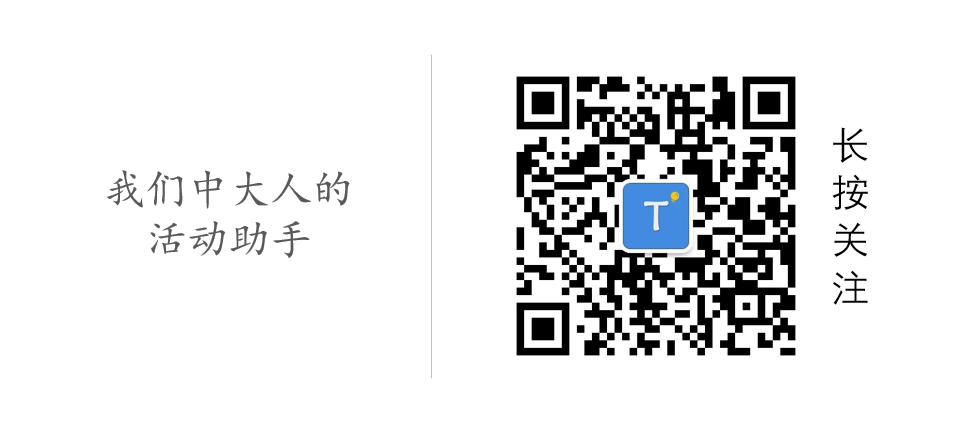
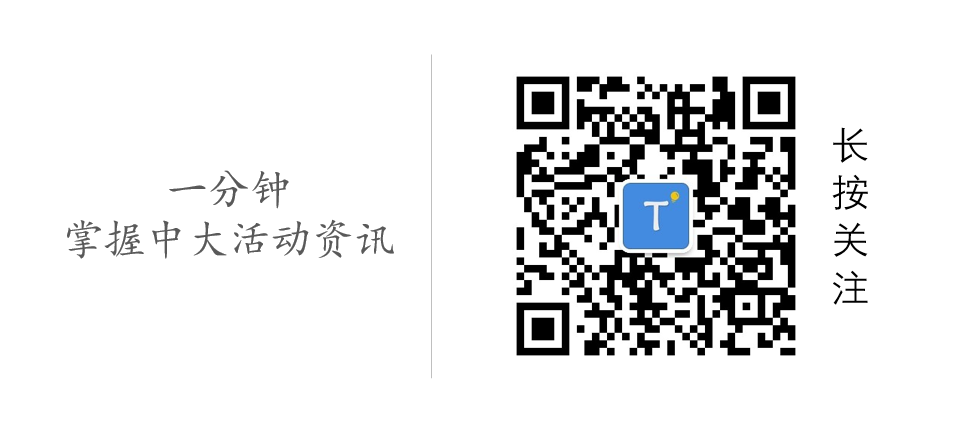
修复了第二反馈的所有bug

Changed region(s): [[0.0615, 0.5212, 0.3996, 0.6132], [0.0922, 0.3986, 0.3689, 0.4906]]

diff --git a/static/js/publish.js b/static/js/publish.js
@@ -16,14 +16,26 @@ $(document).ready(function() {
 
 	//initial the time picker
 	$("#actDDL").datetimePicker({
-	  min: "2012-12-12",
+	  min: theDate(),
 	  max: "2022-12-12 12:12",
 	});
 
 	//绑定检验函数
 	bindCheck();
 	UpLoadImage();
-})
+});
+
+function theDate() {
+	var timeStr = "";
+	var Today = new Date();
+	timeStr = Today.getFullYear()+"-"+
+				(Today.getMonth()+1)+"-"+
+				(Today.getDate()) + " "+
+				(Today.getHours()) + ":"+
+				(Today.getMinutes());
+
+	return timeStr;
+}
 
 function UpLoadImage() {
 	$.weui = {};
@@ -207,9 +219,10 @@ function checkNeceValid() {
 	}
 }
 function checkCounterOk(selector) {
-	if (isCheckPass[selector] == true ) {
+	if (isCheckPass[selector] == true && $(selector).val().length != 0) {
 		showSuccess(selector);
-	} else {
+	}
+	else if (isCheckPass[selector] == true) {
 		$(selector+"_showTips").hide();
 	}
 
@@ -314,8 +327,11 @@ function showFaild(selector) {
 }
 function checkEmpty() {
 	for (var key in isCheckPass) {
-		if (isCheckPass[key] == false && key !== "#actReward" && key != "#actDem") {
-			showFaild(key, "艾玛，还没填呢");
+		if (isCheckPass[key] == false 
+			&& key !== "#actReward" 
+			&& key != "#actDem"
+			&& $(key).val().length == 0) {
+			showFaild(key, "请输入相关内容");
 		}
 	}
 }

diff --git a/templates/publish.html b/templates/publish.html
@@ -3,7 +3,7 @@
     <head>
         <meta charset="UTF-8">
         <meta name="viewport" content="width=device-width,initial-scale=1,user-scalable=0">
-        <title>发布活动</title>
+        <title>发布{{ MainTitle }}活动</title>
         <!-- 引入 WeUI -->
         <link rel="stylesheet" href="{{ static_url("css/weui.css") }}"/>
         <link rel="stylesheet" href="{{ static_url("css/publish.css") }}" />
@@ -14,7 +14,7 @@
     </head>
     <body>
         <div class="header">
-            <div><img src="{{ static_url("images/publish.png") }}"><h1>发布活动</h1></div>
+            <div><img src="{{ static_url("images/publish.png") }}"><h1>发布{{ MainTitle }}活动</h1></div>
             <p class="tips">在这里，把你的活动告诉中大人</p>
         </div>
         <form id="Actform" action="/publish?Title={{ Title }}" method="post">

diff --git a/templates/modules/activityItem.html b/templates/modules/activityItem.html
@@ -63,12 +63,14 @@
 
                 <p style="font-size: 1em; text-align: left;">
                     <span style=" line-height: 28px;"><strong style="line-height: 25.6px;"><span style="line-height: 23.4px;"><strong>活动详情：</strong></span></strong></span><span style=" line-height: 25.6px;">{{ activity.actDetail }}</span>
+                    <br>
                     {% if activity.QRImageName != "no_image" %}
-                            <img src="/ImageBase/{{ activity.QRImageName }}" style="height:160px;text-align:center;">
+                    <p style="margin-bottom:-20px">
+                        <img src="/ImageBase/{{ activity.QRImageName }}" style="height:160px;text-align:center;">
+                    </p>
                     {% end %}
                 </p>
             </section>
-
 
         </section>
     </section>

diff --git a/templates/modules/header.html b/templates/modules/header.html
@@ -16,7 +16,7 @@
                           </h2>
                           <section class="" style="border-color: rgb(211, 172, 156); color: inherit;">
                               <p>
-                                  <span style="font-size: 14px; line-height: 22.4px;">纵览校园活动资讯，一手掌握身边最热活动信息</span>
+                                  <span style="font-size: 14px; line-height: 22.4px;">一分钟掌握中大活动资讯</span>
                               </p>
                           </section>
                       </section>

diff --git a/templates/login.html b/templates/login.html
@@ -1,0 +1,13 @@
+<html>
+    <head>
+        <title>Please Log In</title>
+    </head>
+
+    <body>
+        <form action="/manage/login" method="POST">
+            {% raw xsrf_form_html() %}
+            Username: <input type="text" name="username" />
+            <input type="submit" value="Log In" />
+        </form>
+    </body>
+</html>

diff --git a/templates/manage.html b/templates/manage.html
@@ -11,6 +11,9 @@
         <div class="header">
             <h1>中大活动汇总</h1>
         </div>
+        <p>
+            <a href="/manage/logout">登出</a>
+        </p>
         <div class="body">
             <a href="/collection?Title=welfare">公益</a>
             <a href="/collection?Title=PE">体育</a>

diff --git a/templates/collection.html b/templates/collection.html
@@ -21,7 +21,6 @@
               {% module Footer() %}
           </section>
       </section>
-      <p></p>
       <p>
           <br/>
       </p>

diff --git a/server.py b/server.py
@@ -14,7 +14,7 @@ import time
 
 from tornado.options import define, options
 
-define("port", default=80, help="run on the given port", type=int)
+define("port", default=8888, help="run on the given port", type=int)
 define("mysql_host", default="127.0.0.1:3306", help="database host")
 define("mysql_database", default="Activity", help="database name")
 define("mysql_user", default="root", help="database user")
@@ -25,6 +25,8 @@ class BaseHandler(tornado.web.RequestHandler):
     @property
     def db(self):
         return self.application.db
+    def get_current_user(self):
+        return self.get_secure_cookie("username")
 
 
 class IndexHandler(BaseHandler):
@@ -33,8 +35,10 @@ class IndexHandler(BaseHandler):
 
 class PublishHandler(BaseHandler):
     def get(self):
+        titleMap = {"welfare":u"公益", "PE":u"体育", "game":u"比赛", "lecture":u"讲座", "unSelected":u""}
         title = self.get_query_argument("Title", "unSelected")
-        self.render("publish.html", Title=title)
+        MainTitle = titleMap[title]
+        self.render("publish.html", Title=title, MainTitle=MainTitle)
 
     def post(self):
         try:
@@ -72,12 +76,20 @@ class SuccessPubHandler(BaseHandler):
         self.render("publish-success.html")
     
 class ShowCollectionHandler(BaseHandler):
+    @tornado.web.authenticated
     def get(self):
         actType = self.get_query_argument("Title", None)
         if not actType:
             self.write("请查询相应类型的活动\n")
             return
 
+        #首先删除过期的信息
+        # 现在的时间
+        ISOTIMEFORMAT = '%Y-%m-%d %H:%M'
+        LocalTime = time.strftime( ISOTIMEFORMAT, time.localtime())
+        print LocalTime
+        deleted = self.db.execute("DELETE FROM activity WHERE actDDL <= %s", LocalTime)
+        # 查找出所需的信息
         activity = self.db.query("SELECT * FROM activity WHERE actType = %s ORDER BY actDDL;", actType)
         if not activity:
             self.write("暂时还没有此类型的活动")
@@ -85,6 +97,7 @@ class ShowCollectionHandler(BaseHandler):
         self.render("collection.html", activity=activity)
 
 class ManageHandler(BaseHandler):
+    @tornado.web.authenticated
     def get(self):
         self.render("manage.html")
 
@@ -155,6 +168,20 @@ class CheckActNameHandler(BaseHandler):
         else:
             self.write("exist")
 
+class LoginHandler(BaseHandler):
+    def get(self):
+        self.render('login.html')
+
+    def post(self):
+        self.set_secure_cookie("username", self.get_argument("username"))
+        self.redirect("/manage")
+
+class LogoutHandler(BaseHandler):
+    def get(self):
+        if (self.get_secure_cookie("username")):
+            self.clear_cookie("username")
+            self.redirect(r"/manage/login")
+
 class Error_PageHandler(BaseHandler):
     def get(self, rep):
         self.write_error(404)
@@ -175,6 +202,8 @@ class Application(tornado.web.Application):
             (r"/uploadImage", UploadImageHandler),
             (r"/ImageBase/(\d*_\d*\.png)", ResposeImageHandeler),
             (r"/checkActName", CheckActNameHandler),
+            (r"/manage/login", LoginHandler),
+            (r"/manage/logout", LogoutHandler),
             # 捕获错误路径
             (r"/(.*)", Error_PageHandler)
         ]
@@ -184,7 +213,9 @@ class Application(tornado.web.Application):
             ui_modules={"ActItem": activityItemModule,
                         "Header": headerModules,
                         "Footer": footerModule},
+            login_url="/manage/login",
             debug=True,
+            cookie_secret="2jIuGE32TVmSeZe9a4yep9elQB7NWk5Pmyvn0VKfHPk="
         )
         super(Application, self).__init__(handlers, **settings)
 
